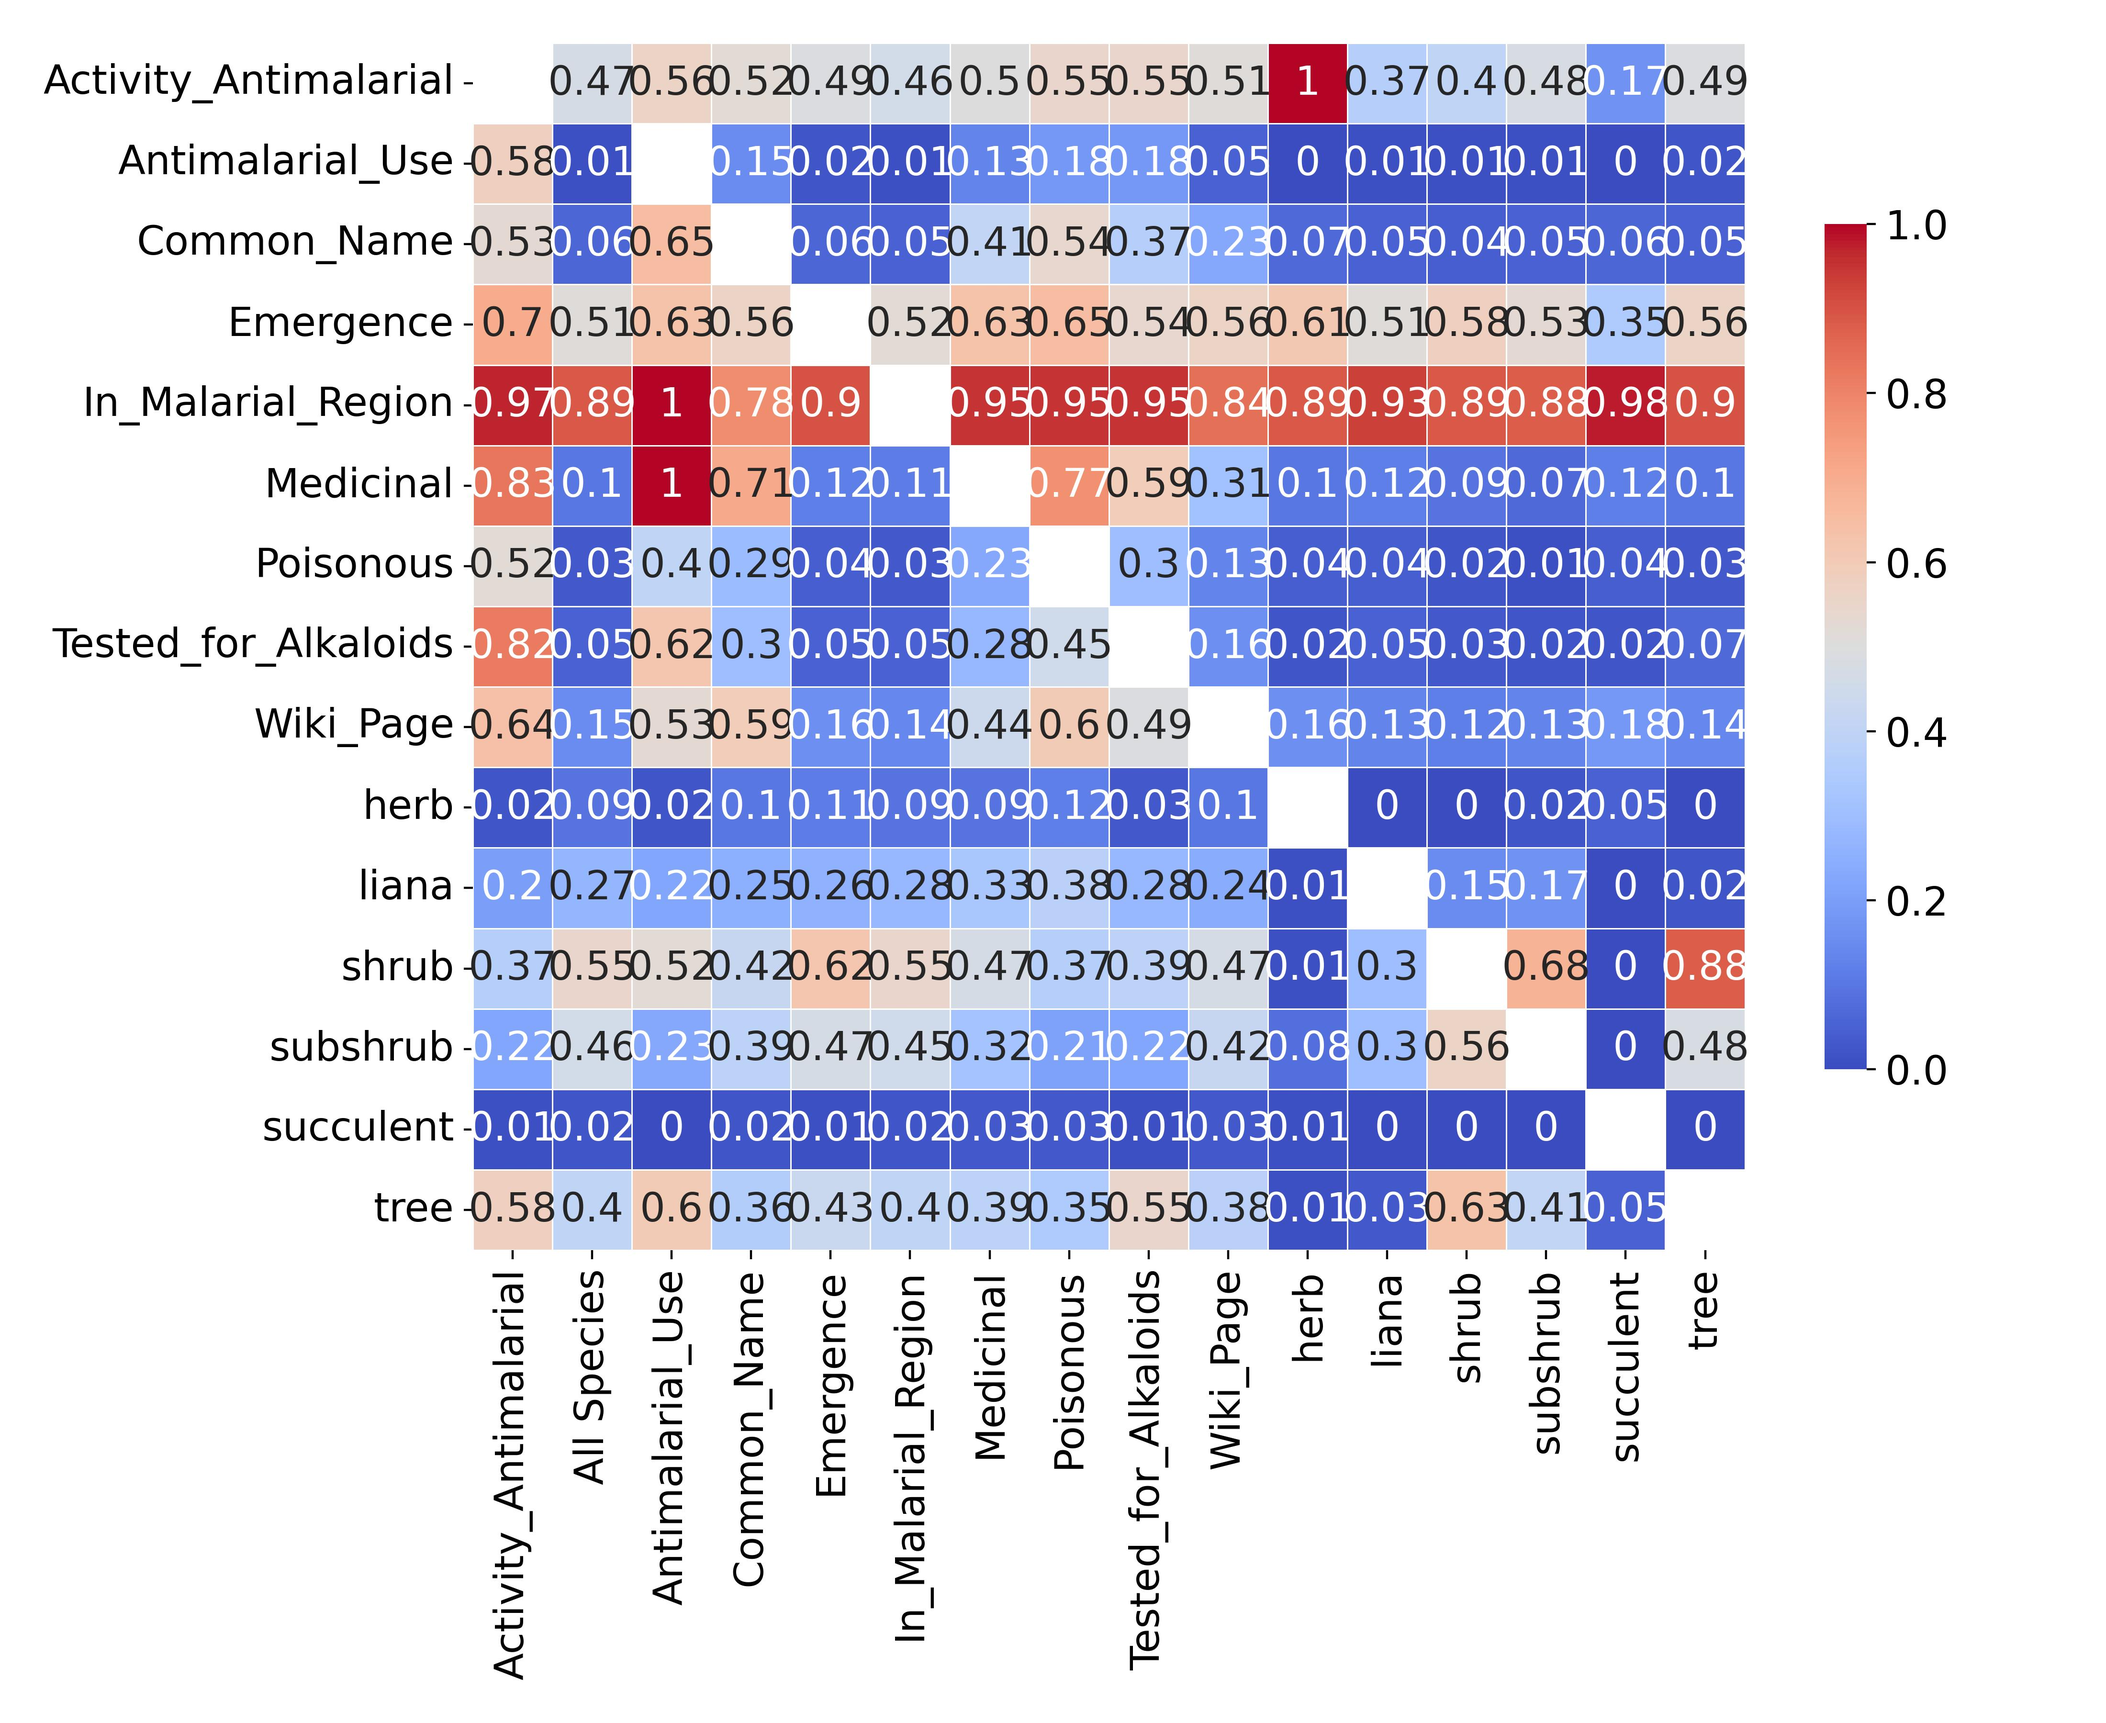
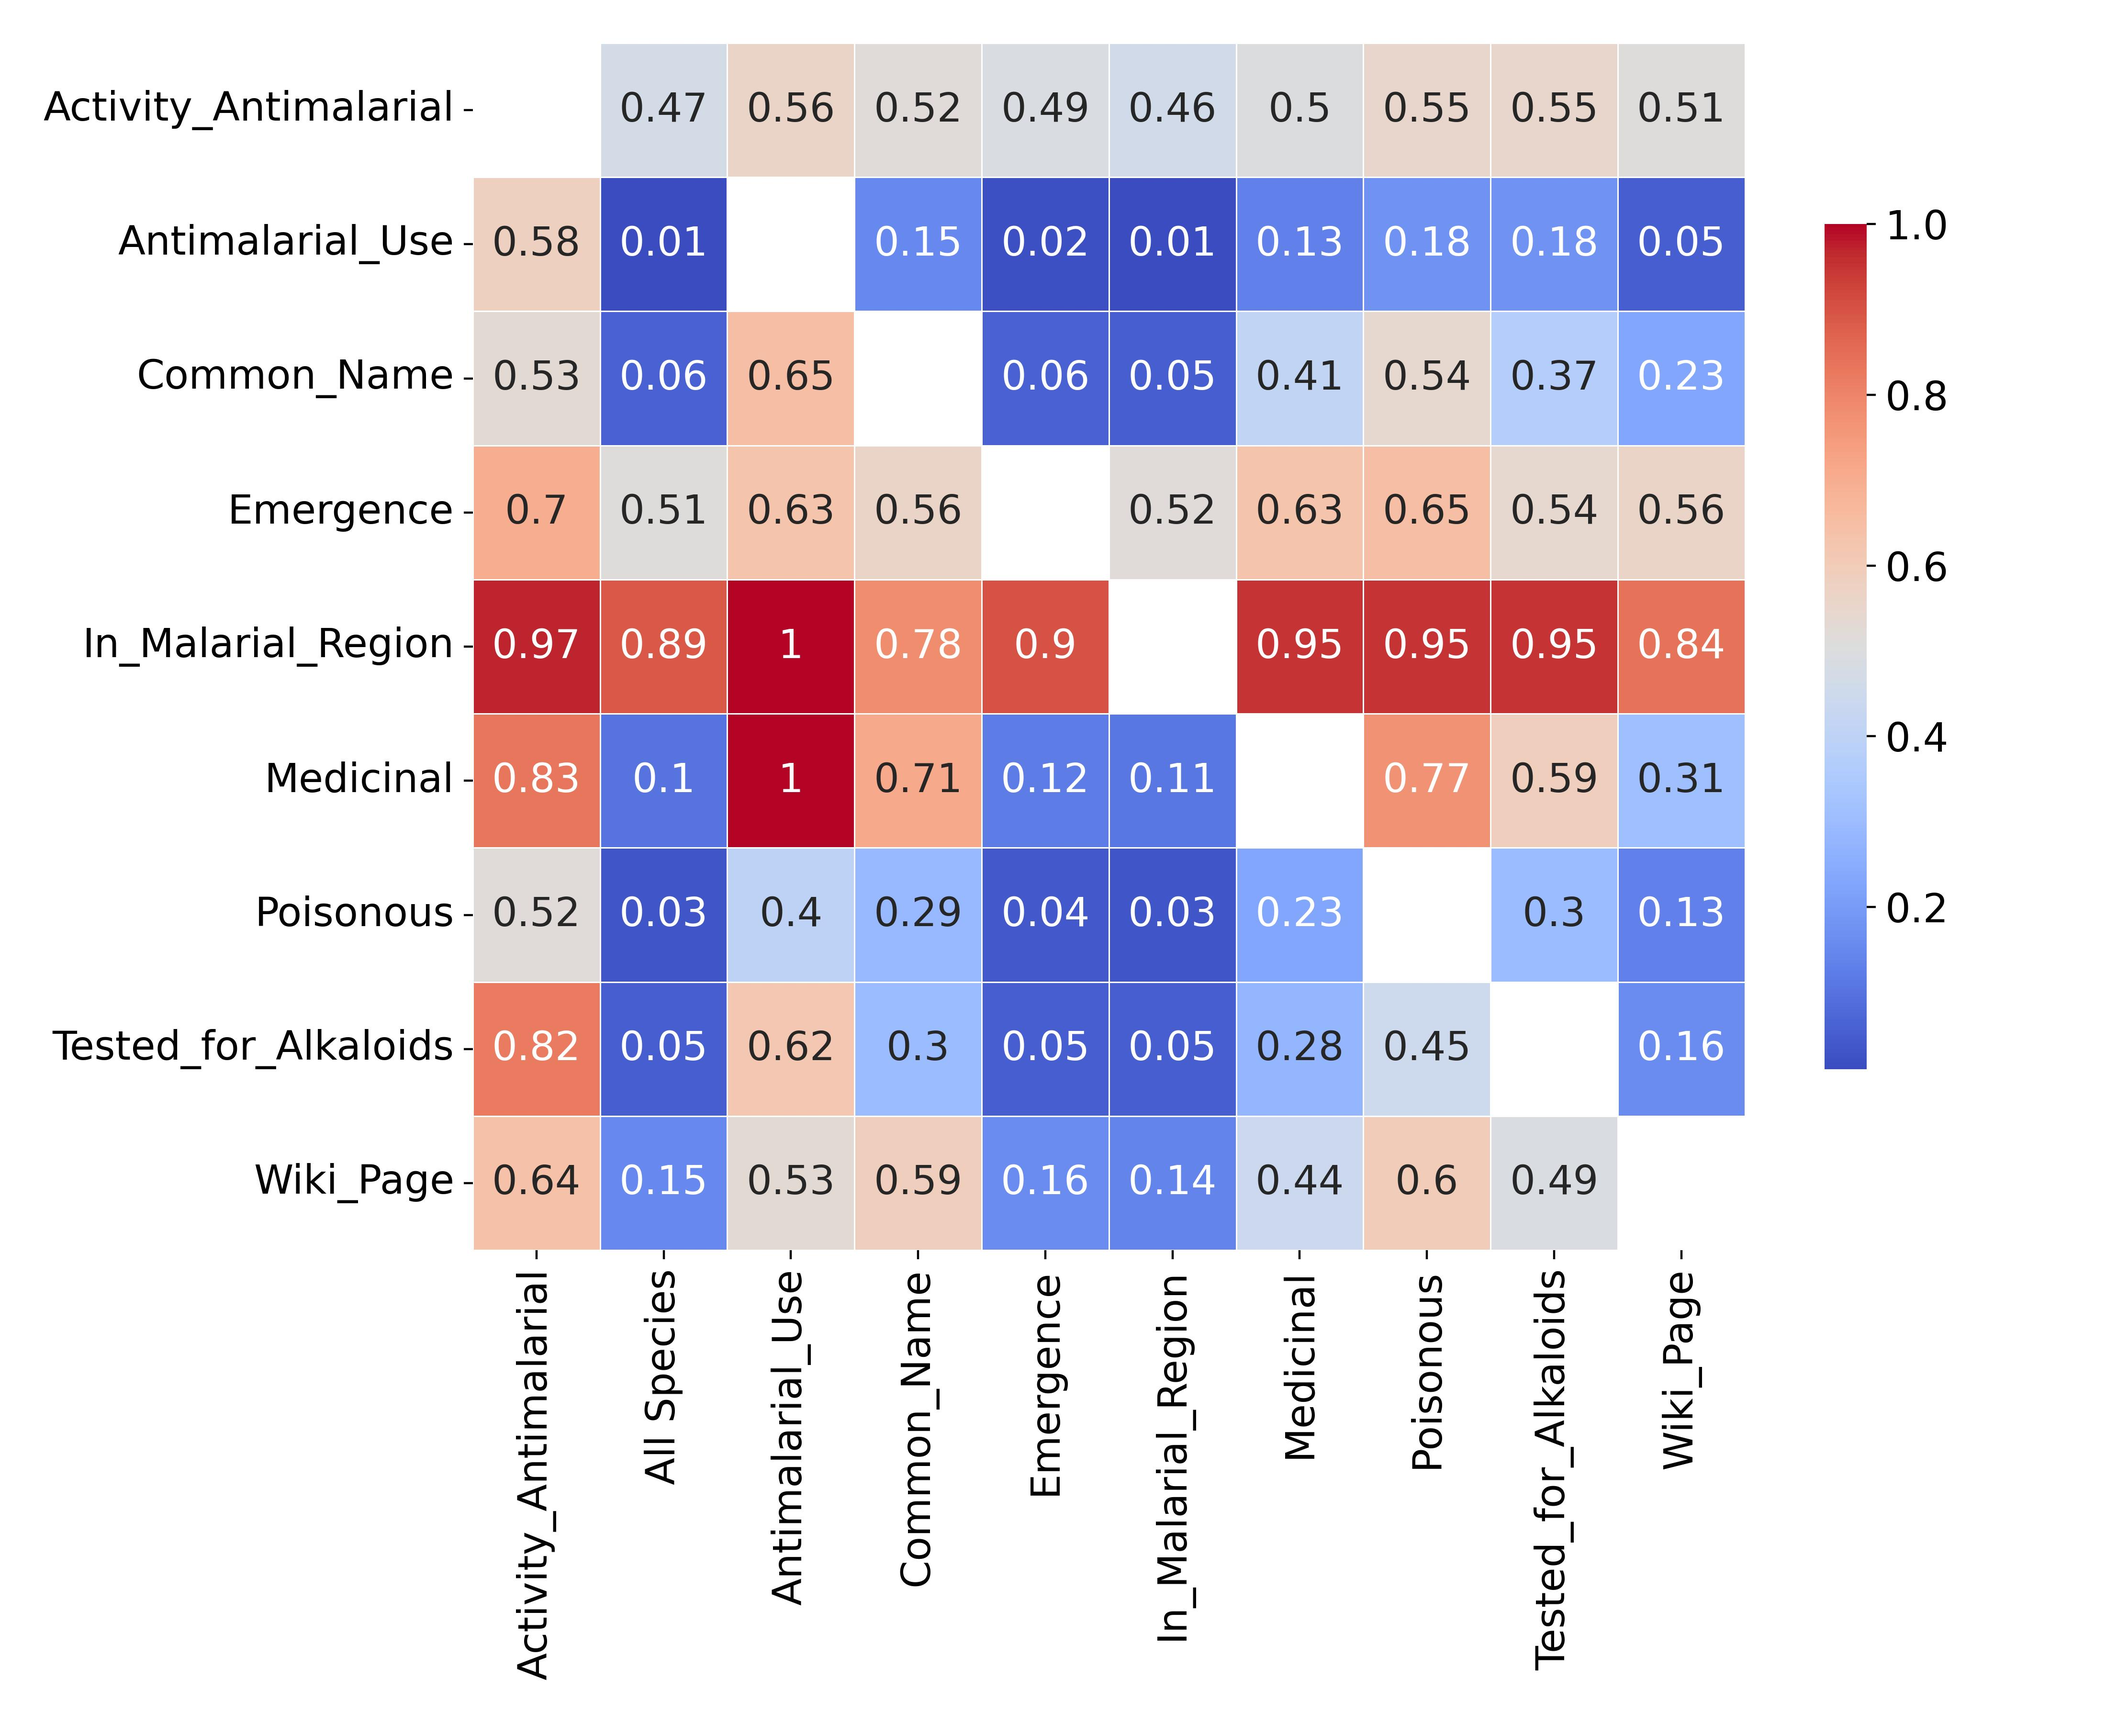
fix heatmap

diff --git a/bias_correction_and_summaries/trait_relations.py b/bias_correction_and_summaries/trait_relations.py
@@ -85,7 +85,7 @@ def make_heatmap(cooccur_df: pd.DataFrame, outfile: str):
 
 
 def main():
-    bin_traits = [c for c in vars_to_use_in_bias_analysis if c in BINARY_VARS]
+    bin_traits = [c for c in vars_to_use_in_bias_analysis if c in BINARY_VARS and c not in HABIT_COLS]
     co_occ_df = make_cooccur_df(ALL_TRAITS, bin_traits + [TARGET_COLUMN])
     make_heatmap(co_occ_df, os.path.join(_comparison_output_dir, 'bin_heatmap.jpg'))
 
